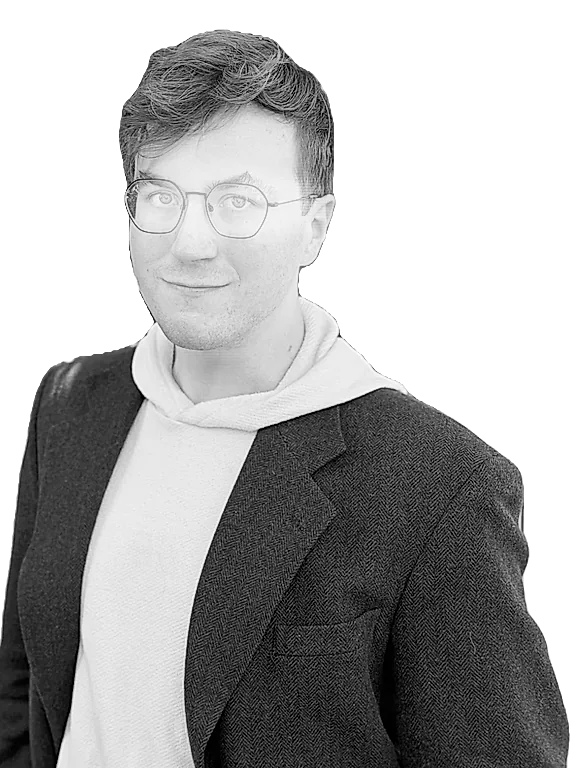
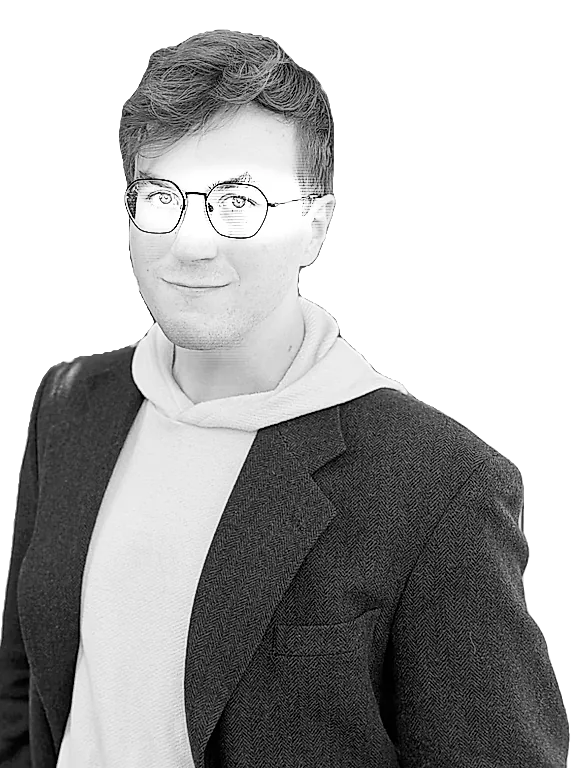
Portrait: integer device-pixel grid (no moire), dot taper at the bust bottom, eye definition, stronger frames

Changed region(s): [[0.2188, 0.2188, 0.5625, 0.3125]]

diff --git a/apps/michal-ai/components/presence/HeroGlobe.tsx b/apps/michal-ai/components/presence/HeroGlobe.tsx
@@ -216,17 +216,22 @@ export function HeroGlobe({ pins = PRESENCE_PINS, mock = false, variant = 'slot'
       height = 0.57 * (4 / 3) * Wb
       bottom = top + height
       cellW = 1.1
-      edge = 4 * cellW * sc // dots shrink over the last three rows: a clean, quiet end to the bust
+      edge = 13 * sc // dots shrink to nothing over the last 13 CSS px, following the matte: no straight cut
     }
     // Halftone dots on a square grid are the default at every DPR (measured at 1x and 2x: glasses, eyes and mouth hold; monospace
     // glyphs read as texture). Glyphs (atlas from ui-monospace) are opt-in with `?portrait=glyphs`, desktop only.
     const force = new URLSearchParams(window.location.search).get('portrait')
     const dots = vw < FIGURE_MIN_WIDTH || force !== 'glyphs'
     const cellH = cellW / s.portrait.aspect
+    // Whole device pixels everywhere (rect origin and size, cell size, at least 3 px per cell): the dot grid then lands on the pixel
+    // grid at every DPR (1, 1.25, 1.5, 2, 3) and cannot beat against it into a moire.
+    const cellPx = Math.max(3, Math.round(cellW * sc))
+    const rx = Math.round((left - w.left) * sc)
+    const ry = Math.round(px - (bottom - w.top) * sc)
     s.pspec = {
-      rect: [(left - w.left) * sc, px - (bottom - w.top) * sc, width * sc, height * sc],
+      rect: [rx, ry, Math.round(width * sc), Math.round(height * sc)],
       crop,
-      cell: dots ? [cellW * sc, cellW * sc] : [2.6 * sc, (2.6 / s.portrait.aspect) * sc],
+      cell: dots ? [cellPx, cellPx] : [2.6 * sc, (2.6 / s.portrait.aspect) * sc],
       sideTaper,
       dots,
       strength: 1,

diff --git a/apps/michal-ai/components/presence/globe/renderer.ts b/apps/michal-ai/components/presence/globe/renderer.ts
@@ -195,7 +195,7 @@ void main(){
   if (uMode < .5) {
     // hard knockout by the real matte (anti-aliased at the edge only): inside the silhouette the globe and satellites are removed
     float a = smoothstep(.42, .58, texture(uPic, picUV(f)).a);
-    o = vec4(0., 0., 0., a * uStr);
+    o = vec4(0., 0., 0., a * edge * uStr);   // over the last rows the knockout follows the dot taper, so globe dots take over as the bust's dots shrink
     return;
   }
   vec2 src = f;
